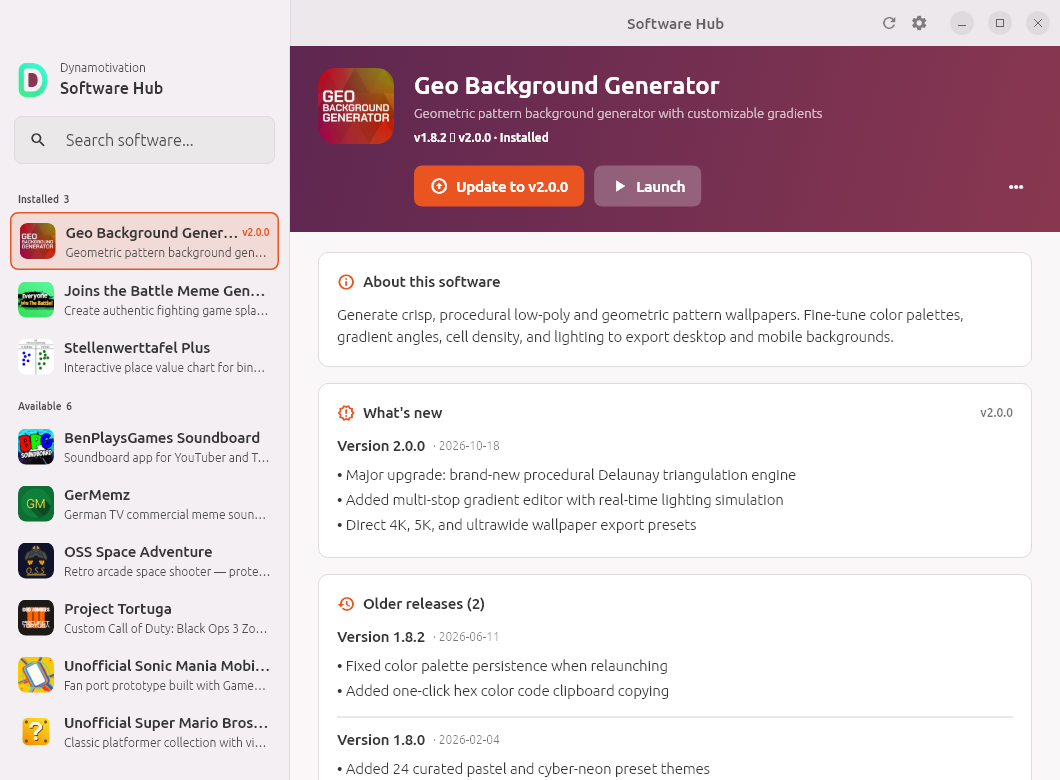
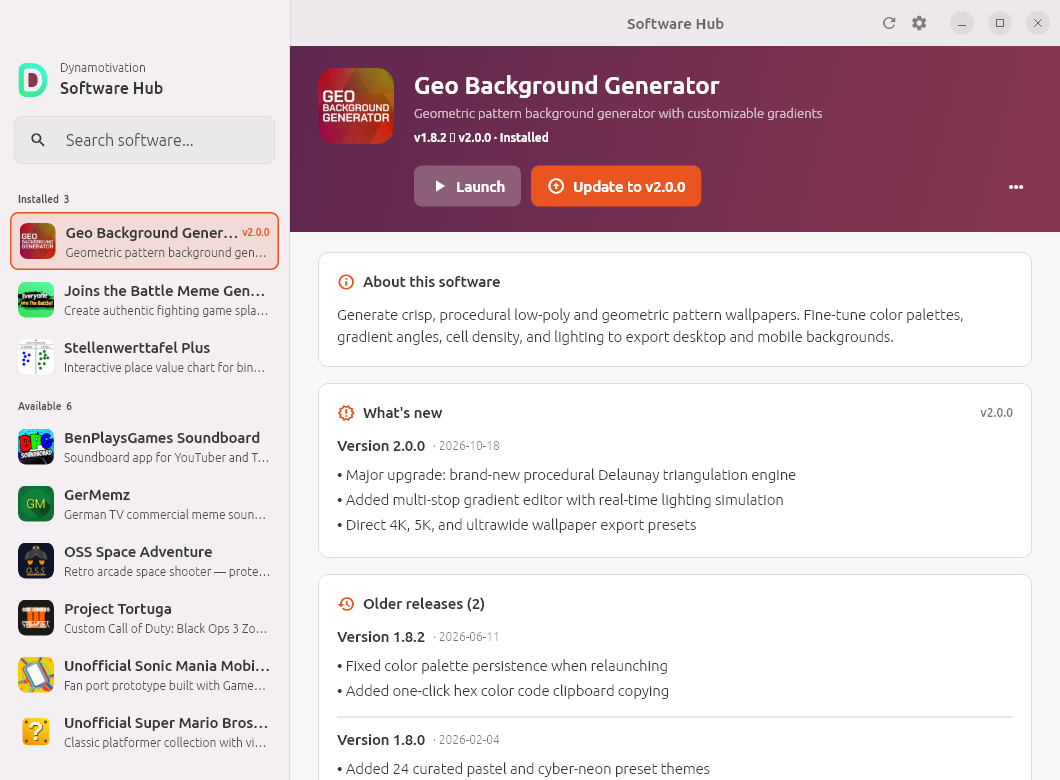
fix(ui): launch button always the leftmost action in all frontends
Launch gets the muscle-memory spot; Update sits to its right so a
double-click can never accidentally trigger an update. Emphasis stays
with Update (filled/prominent), only the position changes. Rule
documented in AGENTS.md UI rules. Regenerated ubuntu screenshots.

Changed region(s): [[0.3736, 0.1846, 0.6849, 0.2769]]

diff --git a/apps/ubuntu/lib/presentation/widgets/package_detail_view.dart b/apps/ubuntu/lib/presentation/widgets/package_detail_view.dart
@@ -231,26 +231,6 @@ class _UbuntuBanner extends StatelessWidget {
                                 style: const TextStyle(fontWeight: FontWeight.bold),
                               ),
                             ),
-                          if (package.hasUpdate)
-                            FilledButton.icon(
-                              style: FilledButton.styleFrom(
-                                backgroundColor: DynUbuntuTheme.ubuntuOrange,
-                                foregroundColor: Colors.white,
-                                padding: const EdgeInsets.symmetric(
-                                  horizontal: 16,
-                                  vertical: 10,
-                                ),
-                                shape: RoundedRectangleBorder(
-                                  borderRadius: BorderRadius.circular(8),
-                                ),
-                              ),
-                              onPressed: onUpdate,
-                              icon: const Icon(Icons.arrow_circle_up, size: 18),
-                              label: Text(
-                                l10n.updateToVersion(package.latestVersion),
-                                style: const TextStyle(fontWeight: FontWeight.bold),
-                              ),
-                            ),
                           if (package.isInstalled)
                             FilledButton.icon(
                               style: FilledButton.styleFrom(
@@ -270,6 +250,26 @@ class _UbuntuBanner extends StatelessWidget {
                               icon: const Icon(Icons.play_arrow, size: 18),
                               label: Text(
                                 l10n.launch,
+                                style: const TextStyle(fontWeight: FontWeight.bold),
+                              ),
+                            ),
+                          if (package.hasUpdate)
+                            FilledButton.icon(
+                              style: FilledButton.styleFrom(
+                                backgroundColor: DynUbuntuTheme.ubuntuOrange,
+                                foregroundColor: Colors.white,
+                                padding: const EdgeInsets.symmetric(
+                                  horizontal: 16,
+                                  vertical: 10,
+                                ),
+                                shape: RoundedRectangleBorder(
+                                  borderRadius: BorderRadius.circular(8),
+                                ),
+                              ),
+                              onPressed: onUpdate,
+                              icon: const Icon(Icons.arrow_circle_up, size: 18),
+                              label: Text(
+                                l10n.updateToVersion(package.latestVersion),
                                 style: const TextStyle(fontWeight: FontWeight.bold),
                               ),
                             ),

diff --git a/apps/windows/lib/presentation/widgets/package_detail_pane.dart b/apps/windows/lib/presentation/widgets/package_detail_pane.dart
@@ -200,6 +200,23 @@ class _PackageDetailPaneState extends State<PackageDetailPane> {
                           crossAxisAlignment: WrapCrossAlignment.center,
                           children: [
                             if (pkg.hasUpdate) ...[
+                              Button(
+                                onPressed: widget.onLaunch,
+                                child: Padding(
+                                  padding: EdgeInsets.symmetric(
+                                    horizontal: 10,
+                                    vertical: 4,
+                                  ),
+                                  child: Row(
+                                    mainAxisSize: MainAxisSize.min,
+                                    children: [
+                                      Icon(FluentIcons.play, size: 12),
+                                      SizedBox(width: 6),
+                                      Text(context.l10n.launch),
+                                    ],
+                                  ),
+                                ),
+                              ),
                               FilledButton(
                                 onPressed: widget.onUpdate,
                                 child: Padding(
@@ -217,23 +234,6 @@ class _PackageDetailPaneState extends State<PackageDetailPane> {
                                           pkg.latestVersion,
                                         ),
                                       ),
-                                    ],
-                                  ),
-                                ),
-                              ),
-                              Button(
-                                onPressed: widget.onLaunch,
-                                child: Padding(
-                                  padding: EdgeInsets.symmetric(
-                                    horizontal: 10,
-                                    vertical: 4,
-                                  ),
-                                  child: Row(
-                                    mainAxisSize: MainAxisSize.min,
-                                    children: [
-                                      Icon(FluentIcons.play, size: 12),
-                                      SizedBox(width: 6),
-                                      Text(context.l10n.launch),
                                     ],
                                   ),
                                 ),

diff --git a/apps/macos/lib/presentation/widgets/package_detail_view.dart b/apps/macos/lib/presentation/widgets/package_detail_view.dart
@@ -218,6 +218,13 @@ class _Header extends StatelessWidget {
                                   l10n.installVersion(package.latestVersion),
                                 ),
                               ),
+                            if (package.isInstalled)
+                              PushButton(
+                                controlSize: ControlSize.large,
+                                secondary: package.hasUpdate,
+                                onPressed: onLaunch,
+                                child: Text(l10n.launch),
+                              ),
                             if (package.hasUpdate)
                               PushButton(
                                 controlSize: ControlSize.large,
@@ -225,13 +232,6 @@ class _Header extends StatelessWidget {
                                 child: Text(
                                   l10n.updateToVersion(package.latestVersion),
                                 ),
-                              ),
-                            if (package.isInstalled)
-                              PushButton(
-                                controlSize: ControlSize.large,
-                                secondary: package.hasUpdate,
-                                onPressed: onLaunch,
-                                child: Text(l10n.launch),
                               ),
                           ],
                         ),

diff --git a/AGENTS.md b/AGENTS.md
@@ -51,6 +51,9 @@ Root `pubspec.yaml` is the Dart workspace; every package and app is a member.
 - **Destructive Actions (Uninstall)**:
   - Destructive actions such as Uninstall must never be exposed as primary or transparent outline buttons in the main banner.
   - They must require two deliberate clicks: placed inside a 3-dot overflow menu (`...` / `more_horiz`), which triggers a modal confirmation dialog (`AlertDialog` / `ContentDialog` / `MacosAlertDialog`) with Cancel and Uninstall buttons.
+- **Launch / Update Button Order**:
+  - Launch is always the leftmost action button; Update sits to its right, in every frontend. Launch gets the muscle-memory spot, so an accidental double-click can never trigger an update.
+  - Keep the existing emphasis hierarchy: Update stays the filled/prominent control (or the Launch button de-emphasized via a secondary style) — position changes, emphasis does not.
 - **Settings View Architecture**:
   - Settings is a global standalone full-page view, never an embedded right pane beside a selected package sidebar. When Settings is open, the package sidebar is hidden, and the header provides a back button to return to the software catalog.
 
